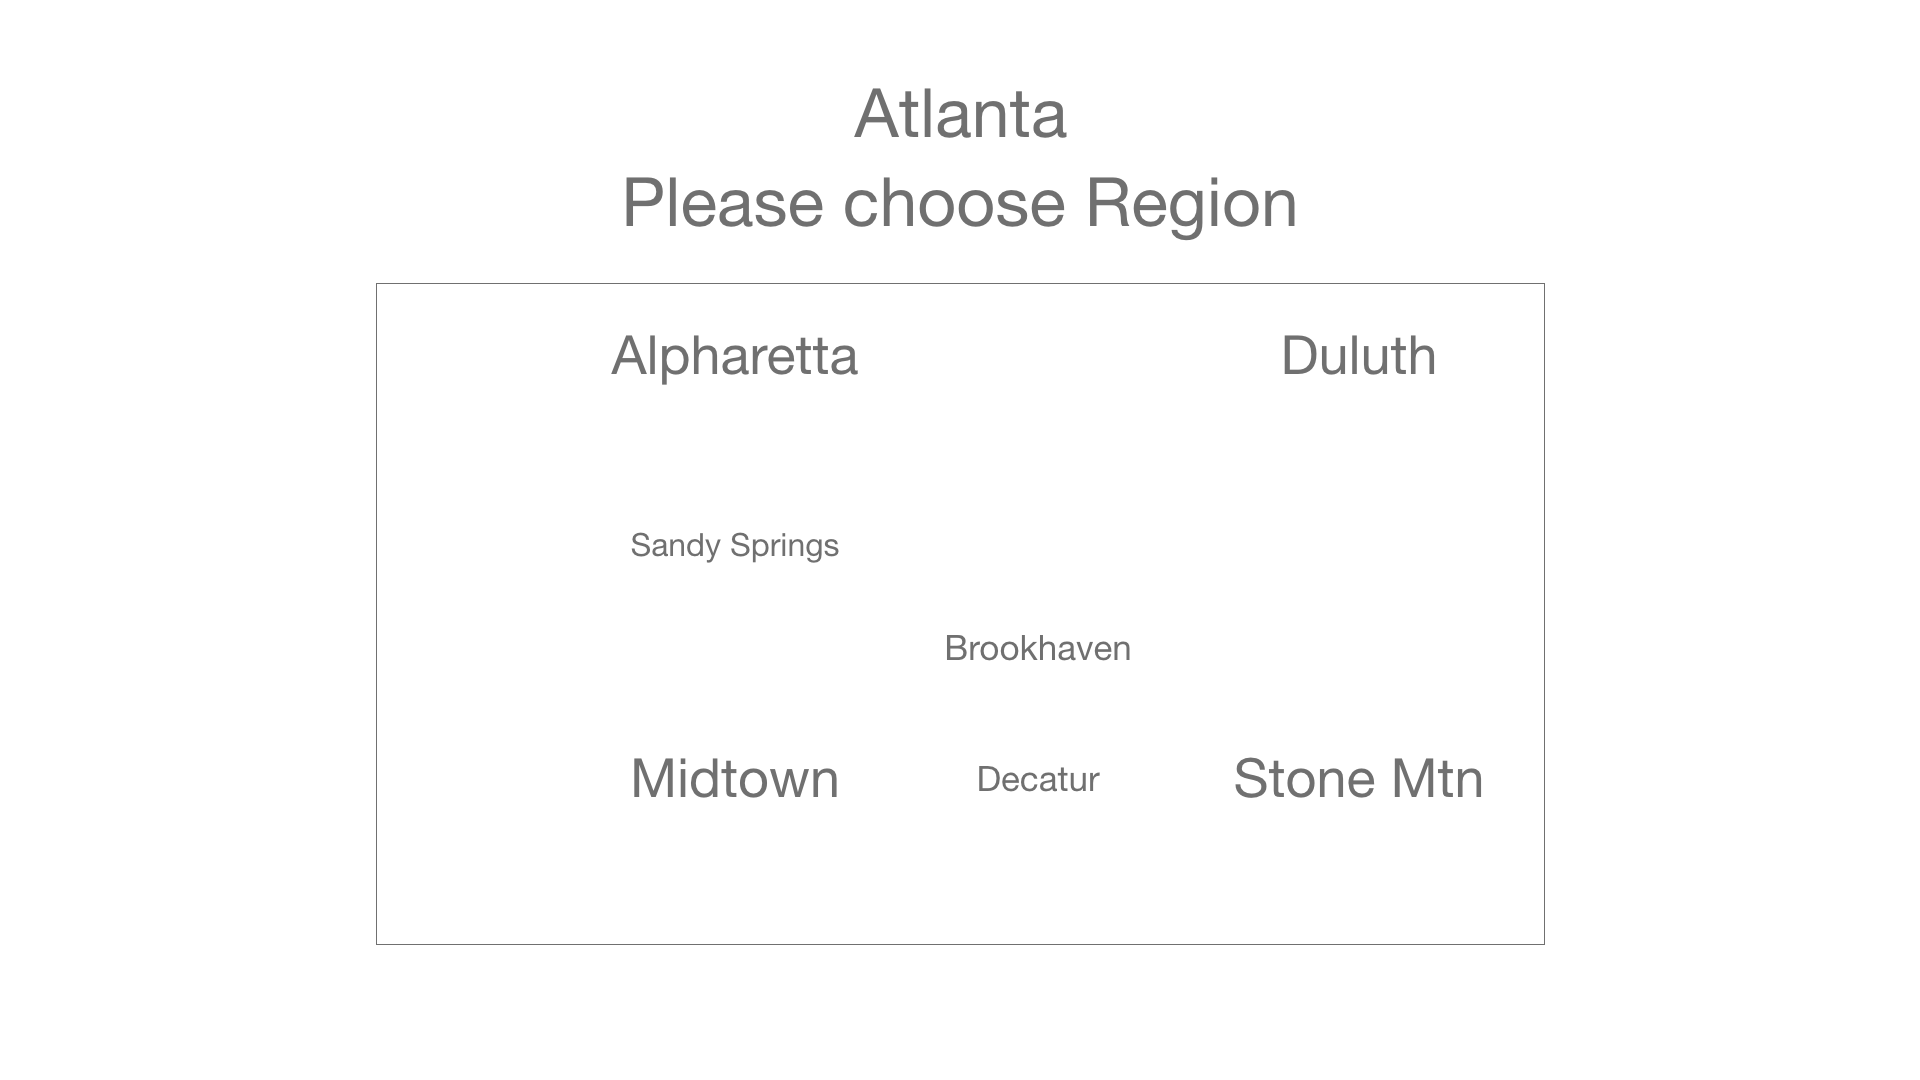
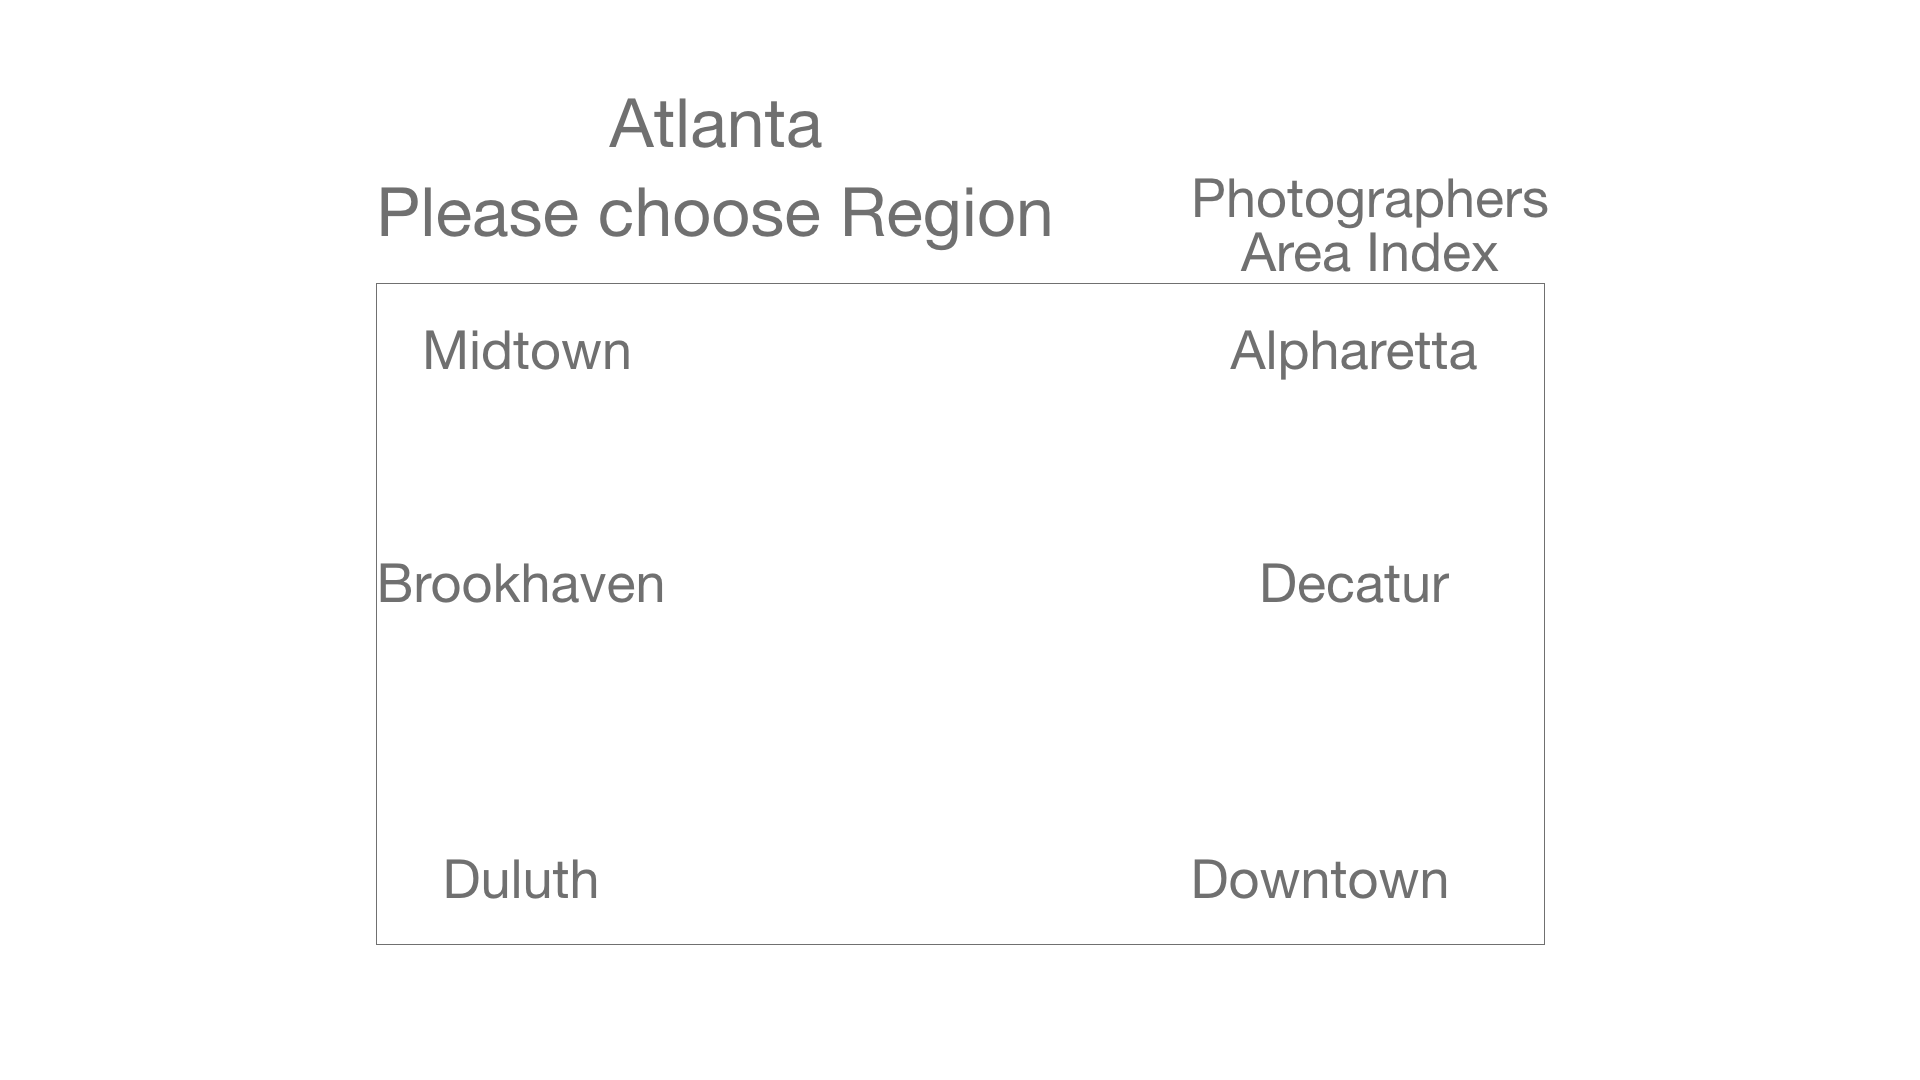
added wireframes to readme

diff --git a/readme.md b/readme.md
@@ -1,31 +1,17 @@
-I could do a mobile coding application that syncs with the computer?
-...
-no... that would be too difficult in a short time.
+I decided with this project to create a photography database for Atlanta, showing off different locations within different regions of Atlanta for photography, as well as a catalogue of photographers to reach out to.
+Honestly, this was easier said than done. This project called for a lot of nesting, for which I did not have enough experience.
+Originally, the regions schema had an area schema nested within it, and that schema had a photo album schema within it. However, I decided to separate all three schemas, only connecting the regions with their areas by hosting the same region name in their objects.
+Each region contains a name, some information, and a photo.
+Each area contains its own name as well as a region name, a description, rules, one cover photo, and the option to add up to three photos of that area. To encourage citing works, I added a source object that should contain the name of the source.
+Instead of an album, I decided to implement a database of photographers that was developed in a separate manner from the regions and areas. I felt that implementing a photographer database into my app would help develop the business of younger photographers who want to market their work. Each photographer page features a name, an instagram/professional portfolio site link, a username, and a profile picture.
+I formatted the styles to give a serene and relaxing appearance, opting for rounded borders to give a welcoming appearance.
 
-What kind of application should I make?
-A photography database, showing off different locations within Atlanta for photography? - Thanks Isabel
-Show which places you can photograph, and which ones you cannot.
-Sort locations by area OR by environment.
-Display photographs detailing my work.
-Use as a sort of photography portfolio?
-
-Inspiration: PuppyPalsApp
-
-A Breath of the Wild Map that displays the area, the shrines in that area, and the Korok seeds available?
-Use a map of the city: Atlanta
-What should the map look like?
-
-<img src="wireframes/Web 1920 – 2.png">
+<img src="wirefreams/Web 1920 - 2.png">
 <img src="wireframes/Web 1920 – 1.png">
 <img src="wireframes/Web 1920 – 3.png">
 <img src="wireframes/Web 1920 – 4.png">
-
-
-What can be added in:
-Atlanta - new regions
-Region - new areas
-Area - new photos
-
+<img src="wireframes/Web 1920 – 5.png">
+<img src="wireframes/Web 1920 – 6.png">
 
 <a href="https://mekaala-atl-photos.herokuapp.com/">Heroku Application</a><br/>
 <a href="https://trello.com/b/MXrS9Chd/project-two">Trello Board</a>
